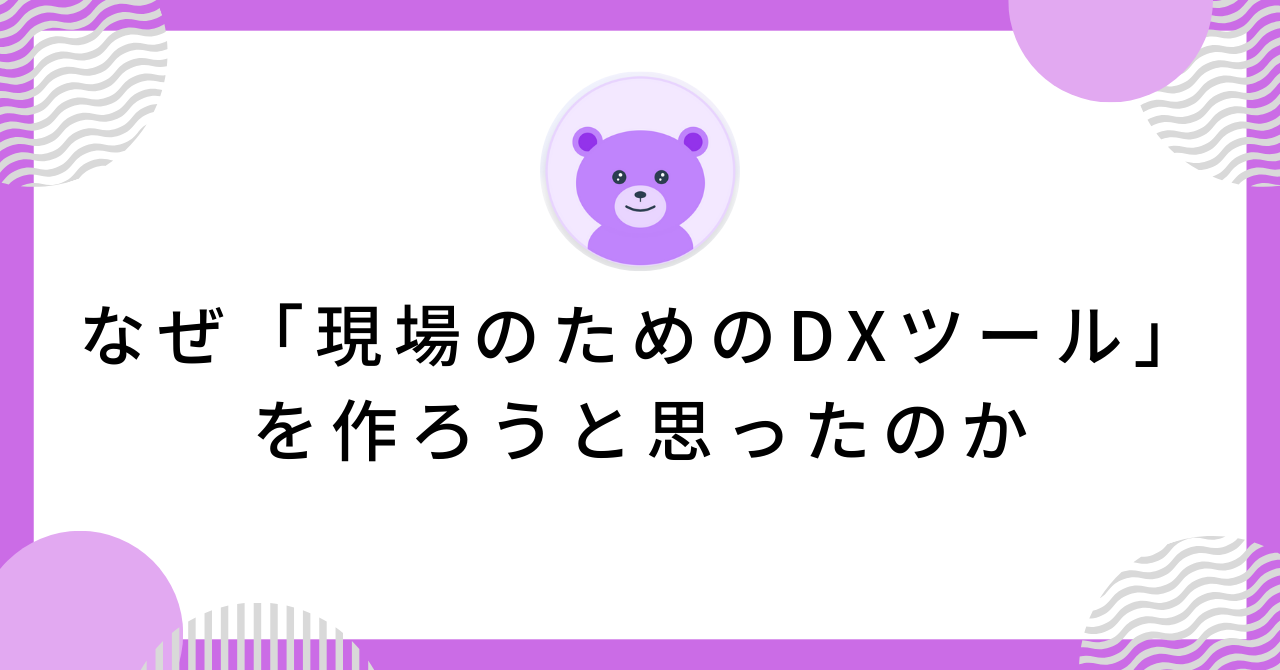
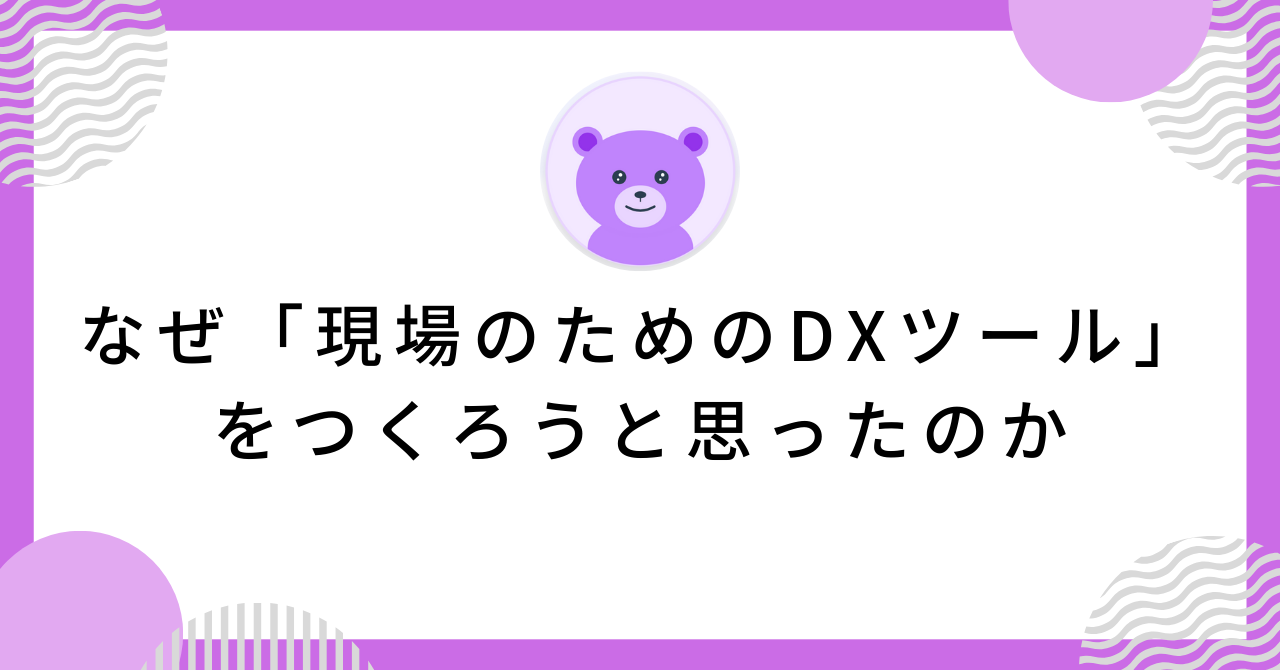
fix: Day1 note記事のタイトルを修正（作る→つくる）
🤖 Generated with [Claude Code](https://claude.com/claude-code)

Changed region(s): [[0.1562, 0.597, 0.8438, 0.6866]]

diff --git a/note/20251201-note-why-dx-tool.md b/note/20251201-note-why-dx-tool.md
@@ -1,4 +1,4 @@
-# なぜ「現場のためのDXツール」を作ろうと思ったのか
+# なぜ「現場のためのDXツール」をつくろうと思ったのか
 
 この記事は、**ひとりでつくるSaaS - 裏note Advent Calendar 2025** の1日目の記事です。
 
